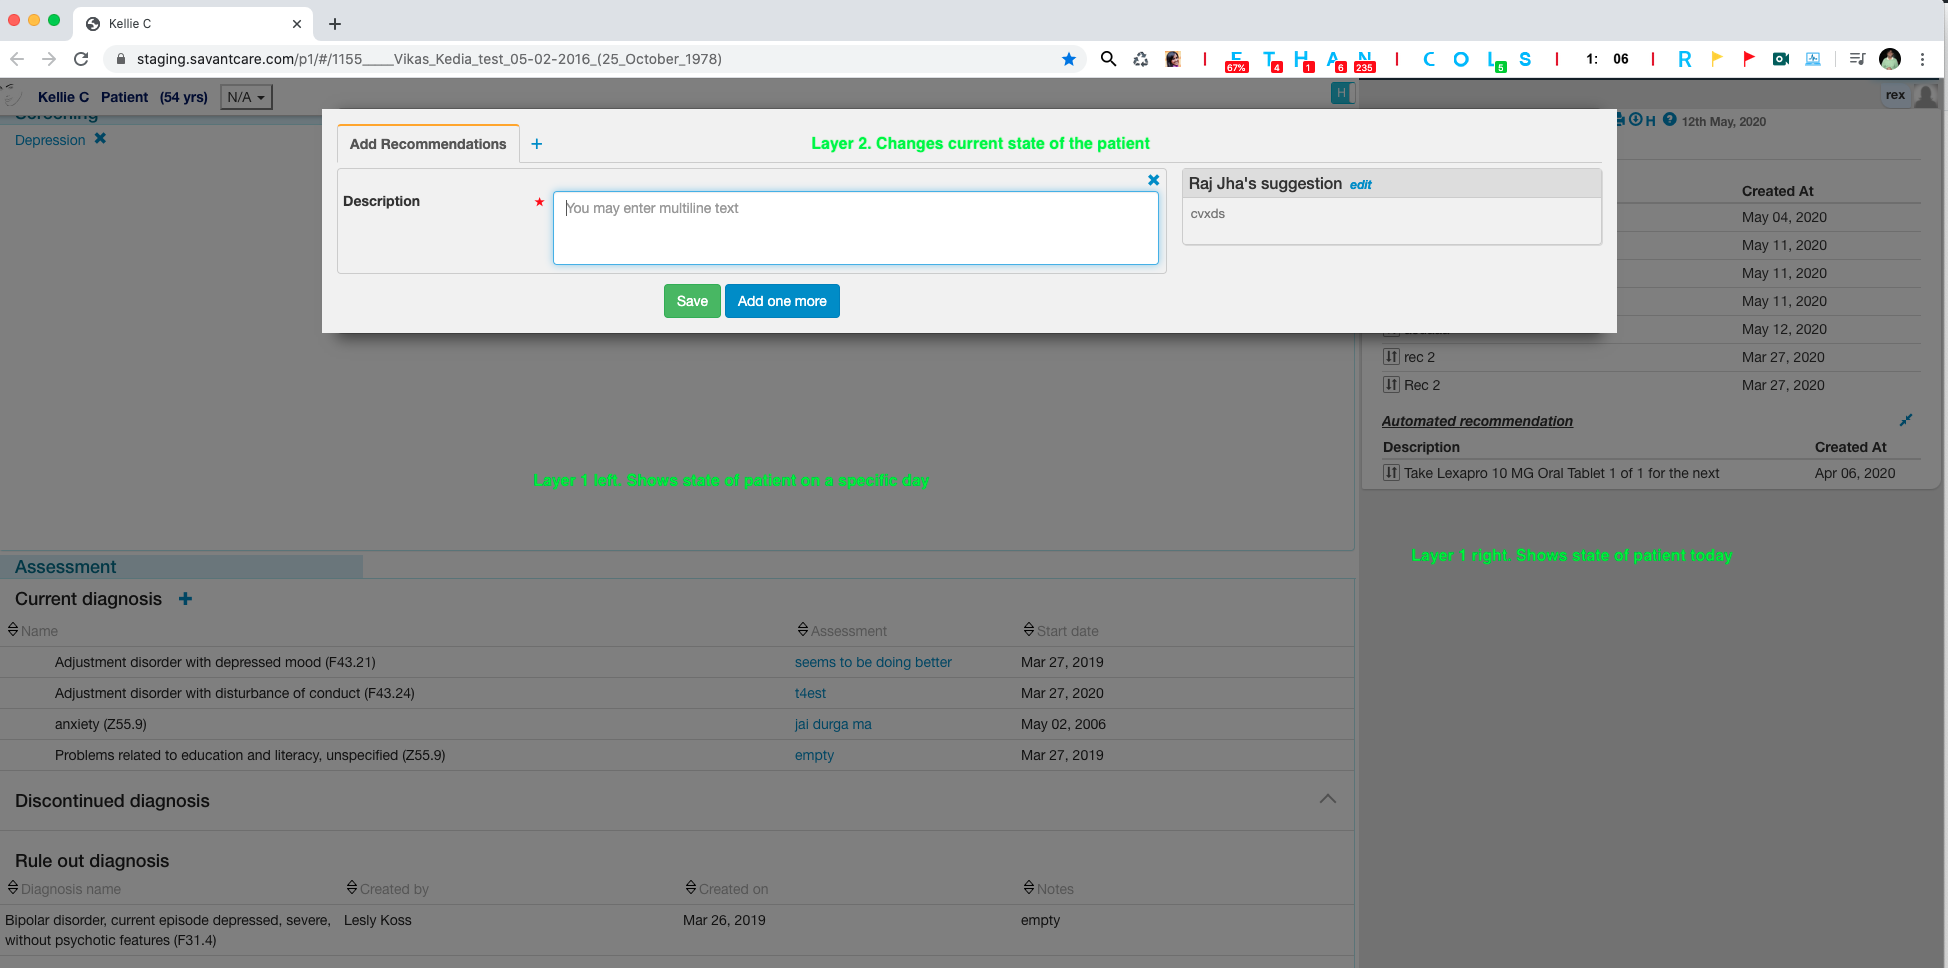
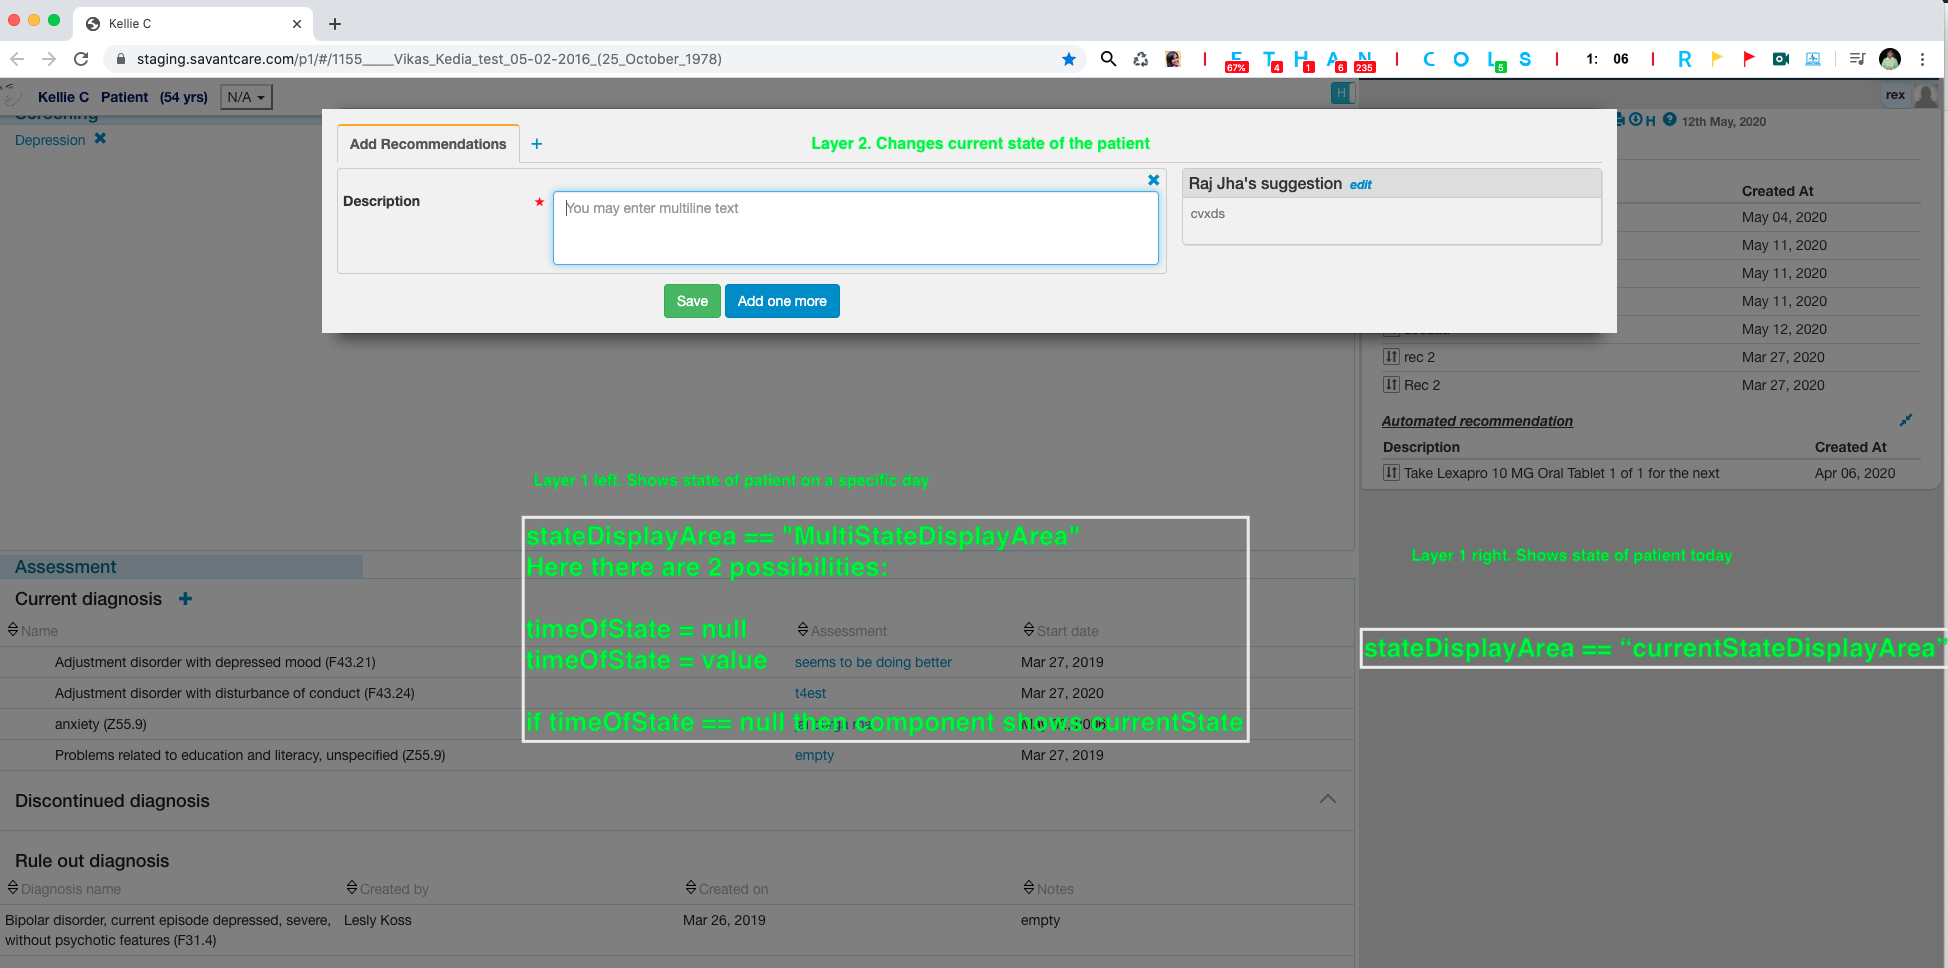
readable

Changed region(s): [[0.2464, 0.5269, 0.6468, 0.7748], [0.6776, 0.6508, 1.0, 0.7128], [0.616, 0.5269, 0.6468, 0.5579]]

diff --git a/vue-client/src/components/composition-layer1/RecommendationCard.vue b/vue-client/src/components/composition-layer1/RecommendationCard.vue
@@ -1,13 +1,13 @@
 <!-- TODO: Instead of Type it should be timeToShowStateOn -->
 <template>
-  <el-card class="box-card" :id="`recommendation-${displayArea}`">
+  <el-card class="box-card" :id="`recommendation-${stateDisplayArea}`">
     <div slot="header" class="clearfix">
       <CardHeader
         title="Recommendation"
         actions="A,M,F,D,X,R"
         ref="card_header"
         keyId="recommendation"
-        :stateDisplayArea="displayArea"
+        :stateDisplayArea="stateDisplayArea"
         :columns="columns"
         @showAddDialog="showAddDialog"
         @showMultiChangeDialog="showMultiChangeDialog"
@@ -20,7 +20,7 @@
       title="Recommendation"
       keyId="recommendation"
       :tabData="tabData"
-      :type="displayArea"
+      :stateDisplayArea="stateDisplayArea"
       @handleSelectionChange="handleSelectionChange"
       @handleChange="handleChange"
       @handleDiscontinue="handleDiscontinue"
@@ -41,7 +41,7 @@ export default {
     DataTable
   },
   props: {
-    displayArea: {
+    stateDisplayArea: {
       type: String,
       default: "CurrentStateDisplayArea" // There are two possible values. CurrentStateDisplayArea and MultiStateDisplayArea
     }

diff --git a/vue-client/src/views/Home.vue b/vue-client/src/views/Home.vue
@@ -9,7 +9,7 @@
           v-for="(component, index) in stateAtSelectedTimeComponents"
           :key="`state-at-selectedTime-${index}`"
           :is="component.value"
-          v-bind="{type: 'stateAtSelectedTime'}"
+          v-bind="{stateDisplayArea: 'multiStateArea'}"
         ></component>
       </SplitArea>
       <SplitArea :size="30" :minsize="100" id="currentStateDisplayArea">

diff --git a/vue-client/src/components/common/CardHeader.vue b/vue-client/src/components/common/CardHeader.vue
@@ -7,6 +7,7 @@ A card header needs to deal with 3 situations:
 A component needs to know whther it is being used in "MultistateArea"  or "CurrentStateDisplayArea"
 If the component is being used in "MultiStateArea" then the component needs to know "timeOfState"
 
+For image see: https://savantcare.github.io/ui/what.html#q1-what-is-the-ui-pattern-for-the-patient-app
 -->
 
 <template>
